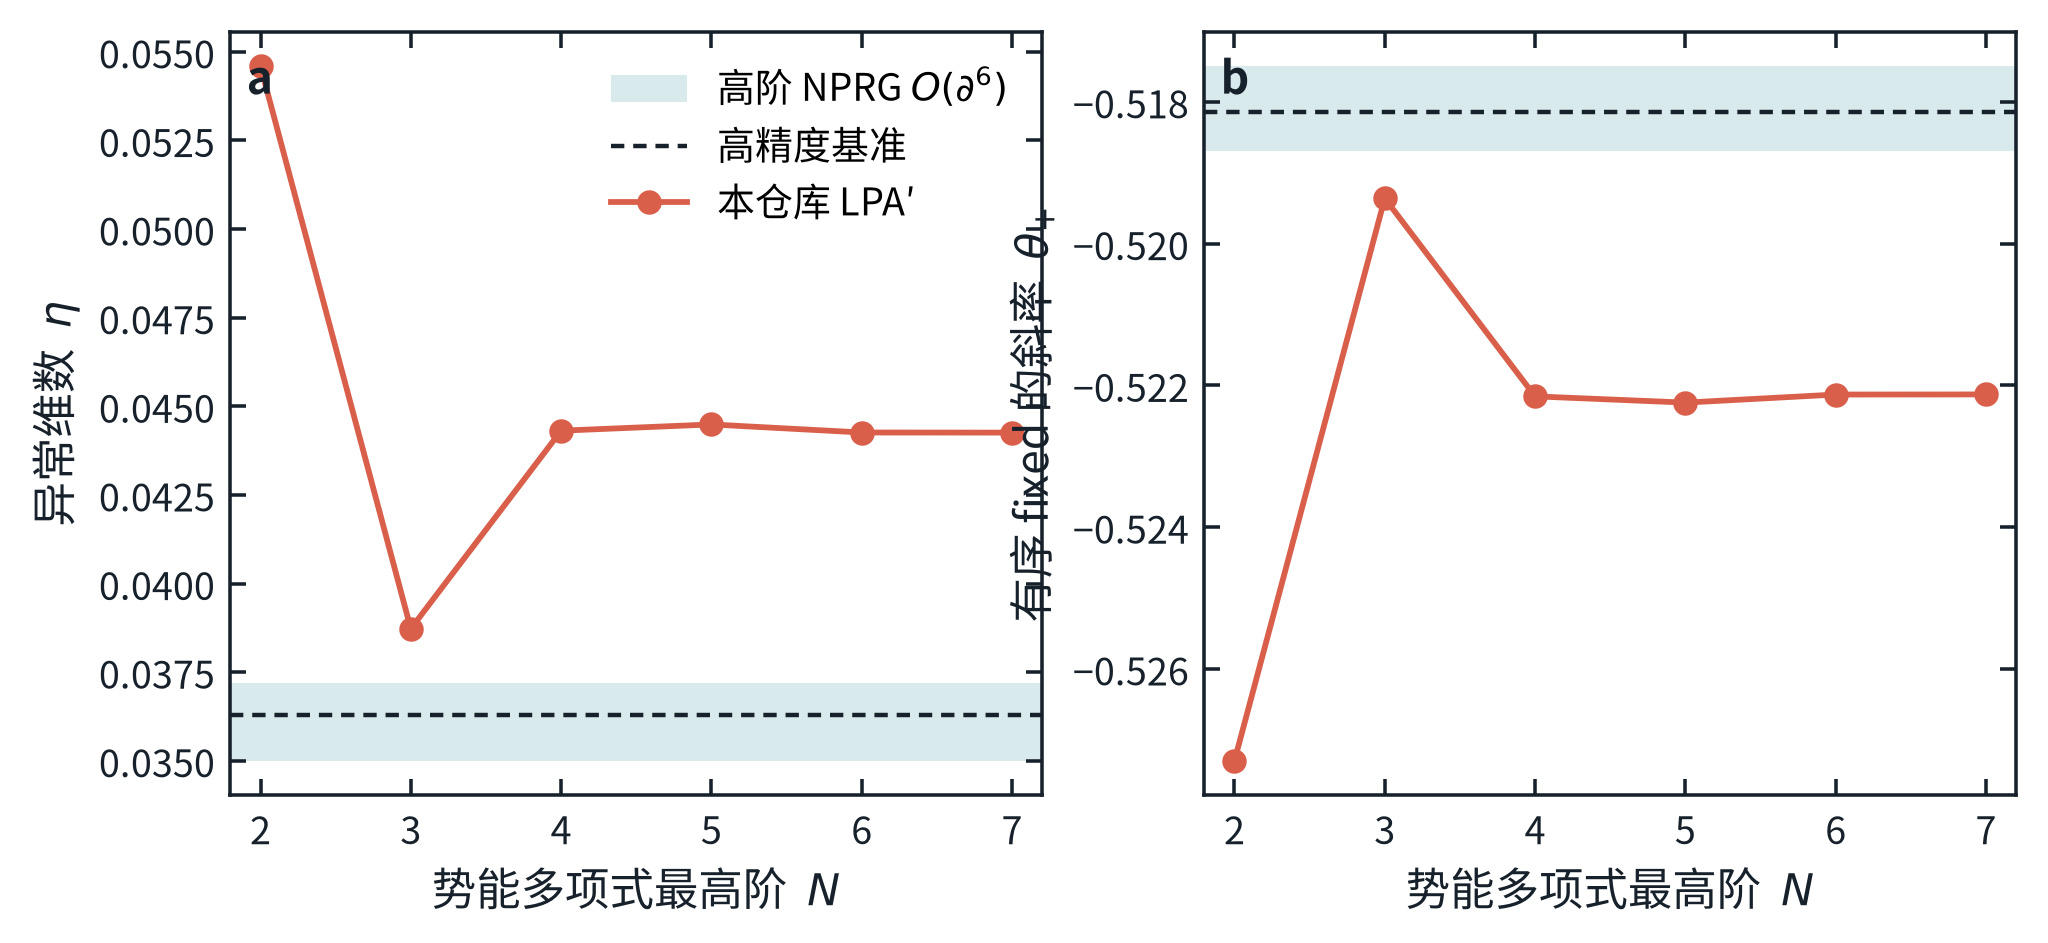
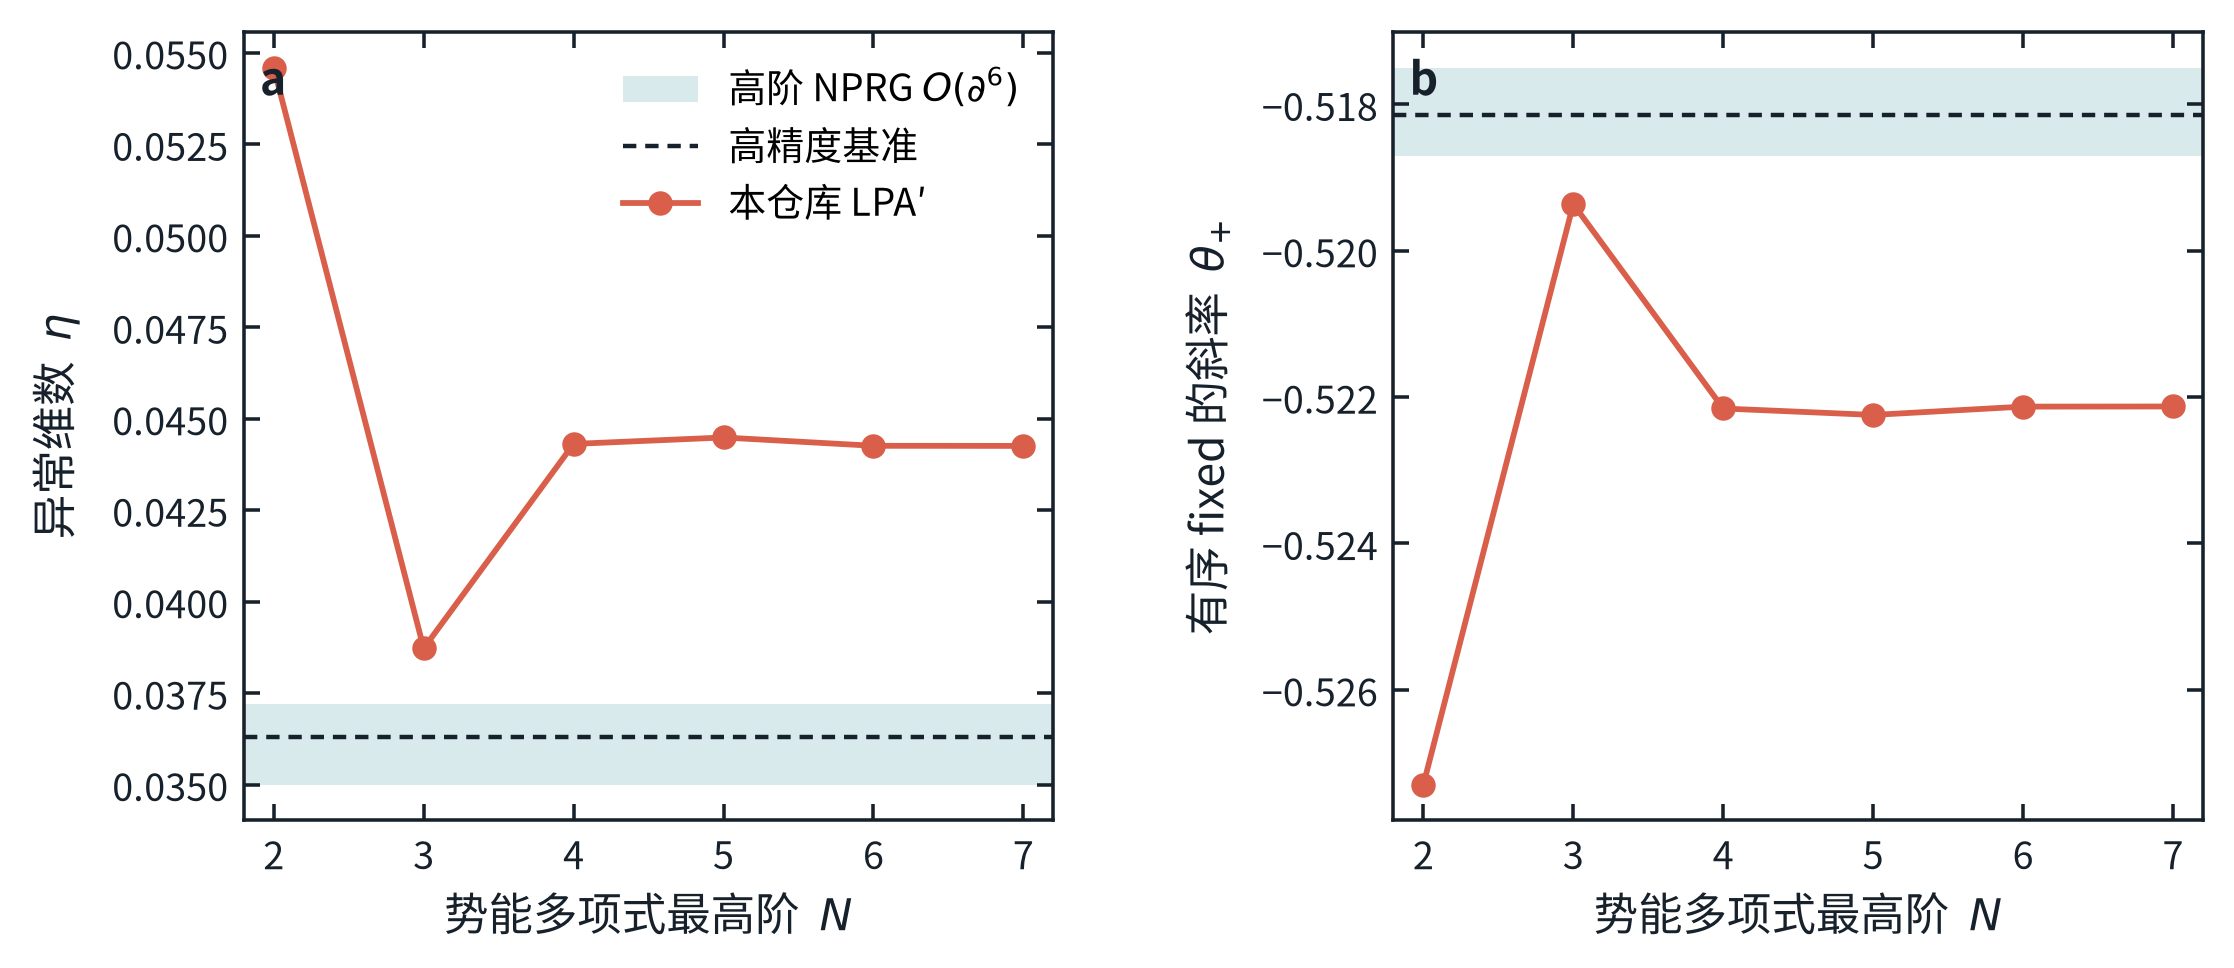
更新FRG报告

diff --git a/show/frg-quantum-ising-initial-slip/index.html b/show/frg-quantum-ising-initial-slip/index.html
@@ -297,7 +297,7 @@
       <div class="meta">
         <span class="status">可复现计算</span>
         <span>发布日期：2026-07-26</span>
-        <span>方法：Wetterich FRG + 边界／复制子 RG</span>
+        <span>方法：Wetterich FRG + 边界／replica RG</span>
         <span>代码与数据：本报告同仓库</span>
       </div>
     </div>
@@ -310,7 +310,7 @@
         在量子临界点，虚时间演化会把初态变成欧几里得路径积分的一条“时间边界”。
         因而短时磁化率不是只由体相临界点决定；初态属于哪一种边界固定点同样关键。
         本报告从精确的 Wetterich 泛函流方程出发，在体相使用 LPA′ 与高阶导数展开，
-        在边界使用普通边界算符与复制子随机场流，计算一维和二维量子 Ising 模型的
+        在边界使用普通边界算符与 replica 随机场流，计算一维和二维量子 Ising 模型的
         有符号短时对数斜率 \(\theta\)。
       </p>
       <div class="result-band">
@@ -602,14 +602,15 @@
         \(y_{h_1}=(D-1)-\Delta_1=0.7249(6)\)。
       </p>
 
-      <h3 class="random">4.3 随机 \(+\!/\!-\) fixed：复制子方差是否相关？</h3>
+      <h3 class="random">4.3 随机 \(+\!/\!-\) fixed：replica 方差是否相关？</h3>
       <p>
         令边界符号 \(s(\mathbf x)=\pm1\) 的概率为
         \(P(s=\pm1)=(1\pm m_0)/2\)。\(m_0=0\) 时平均磁化严格为零；
         \(\theta_{\rm rand}\) 指
         \(R_{\rm rand}=\left.\partial\overline M/\partial m_0\right|_0\)
-        的增长。引入 \(n\) 个复制子后，零均值、方差 \(\Delta\) 的 quenched
-        边界场产生
+        的增长。为计算冻结随机场的平均，引入 \(n\) 套相同的场
+        \(\phi_a\)（英文称 replicas），完成计算后取 \(n\to0\)。零均值、方差
+        \(\Delta\) 的 quenched 边界场产生
       </p>
       \[
         S_{\partial,\rm rep}
@@ -629,7 +630,7 @@
       \]
       <p>
         \(D=2\) 时 \(y_w=0\)，随机方差是边缘无关变量。把非普适正系数吸收到
-        \(g\) 中，二阶复制子流可写成
+        \(g\) 中，二阶 replica RG 流可写成
       </p>
       \[
         \frac{dg}{d\ell}=-g^2,\qquad
@@ -827,7 +828,7 @@
         <li>
           <div>
             <strong>ordinary 的三维边界输入是外部精密校准。</strong>
-            本仓库直接求解体相 FRG 与复制子边界流；\(y_{h_1}=0.7249(6)\)
+            本仓库直接求解体相 FRG 与 replica 边界流；\(y_{h_1}=0.7249(6)\)
             来自改进格点的高精度 ordinary 边界算符测定。它不是本仓库 LPA′
             自行产生的数字。这样做牺牲了“纯单一截断”的标签，换来可辩护的最终精度。
           </div>
@@ -871,7 +872,7 @@ python -m http.server 8000</code></pre>
         <li><a href="./data/exponents.csv">最终六行指数表</a></li>
         <li><a href="./data/lpa_convergence_D3.json">\(D=3\) LPA′ 阶数收敛序列</a></li>
         <li><a href="./src/frg_initial_slip/bulk_lpa.py">固定点与稳定性矩阵实现</a></li>
-        <li><a href="./src/frg_initial_slip/boundary_rg.py">边界／随机复制子指数实现</a></li>
+        <li><a href="./src/frg_initial_slip/boundary_rg.py">边界／随机 replica 指数实现</a></li>
         <li><a href="./src/frg_initial_slip/figures.py">全部图形的可重复绘图代码</a></li>
       </ul>
       <p class="fineprint">

diff --git a/show/frg-quantum-ising-initial-slip/src/frg_initial_slip/figures.py b/show/frg-quantum-ising-initial-slip/src/frg_initial_slip/figures.py
@@ -196,7 +196,9 @@ def convergence_figure(results: dict, output_directory: Path) -> None:
     eta = np.array([row["eta"] for row in data])
     theta_fixed = -(1.0 + eta) / 2.0
 
-    figure, axes = plt.subplots(1, 2, figsize=(7.2, 3.1))
+    figure, axes = plt.subplots(1, 2, figsize=(7.9, 3.2))
+    # Keep the right-panel y label fully inside the inter-panel gutter.
+    figure.subplots_adjust(wspace=0.42)
     panels = [
         (axes[0], eta, r"异常维数  $\eta$", 0.0361, 0.0011, 0.0362978),
         (
@@ -235,7 +237,7 @@ def convergence_figure(results: dict, output_directory: Path) -> None:
             label="本仓库 LPA′",
         )
         axis.set_xlabel("势能多项式最高阶  $N$")
-        axis.set_ylabel(ylabel)
+        axis.set_ylabel(ylabel, labelpad=7)
         axis.set_xticks(orders)
         axis.set_xlim(1.8, 7.2)
         _panel_label(axis, chr(ord("a") + index))
@@ -245,7 +247,8 @@ def convergence_figure(results: dict, output_directory: Path) -> None:
 
 def exponent_comparison_figure(results: dict, output_directory: Path) -> None:
     set_paper_style()
-    figure, axes = plt.subplots(1, 2, figsize=(7.8, 3.35), sharey=True)
+    figure, axes = plt.subplots(1, 2, figsize=(8.0, 3.35), sharey=True)
+    figure.subplots_adjust(wspace=0.18)
     labels = ["严格 (+)\nfixed", "ordinary", "随机 +/−\nfixed"]
     markers = ["o", "s", "D"]
     colors = [COLORS["fixed"], COLORS["ordinary"], COLORS["random"]]
@@ -313,7 +316,8 @@ def exponent_comparison_figure(results: dict, output_directory: Path) -> None:
 
 def disorder_flow_figure(results: dict, output_directory: Path) -> None:
     set_paper_style()
-    figure, axes = plt.subplots(1, 2, figsize=(7.7, 3.2))
+    figure, axes = plt.subplots(1, 2, figsize=(8.0, 3.25))
+    figure.subplots_adjust(wspace=0.34)
     ell = np.linspace(0, 12, 400)
 
     axis = axes[0]
@@ -326,7 +330,7 @@ def disorder_flow_figure(results: dict, output_directory: Path) -> None:
             label=rf"$g_0={coupling:g}$",
         )
     axis.set_xlabel(r"RG “时间”  $\ell=\ln b$")
-    axis.set_ylabel(r"复制子方差耦合  $g(\ell)$")
+    axis.set_ylabel(r"replica 方差耦合  $g(\ell)$", labelpad=7)
     axis.set_title("1D 量子：边缘无关", pad=7)
     axis.legend(loc="upper right")
     _panel_label(axis, "a")
@@ -354,7 +358,7 @@ def disorder_flow_figure(results: dict, output_directory: Path) -> None:
             label=rf"$w_0={amplitude:g}$",
         )
     axis.set_xlabel(r"RG “时间”  $\ell=\ln b$")
-    axis.set_ylabel(r"随机场均方根  $w(\ell)$")
+    axis.set_ylabel(r"随机场均方根  $w(\ell)$", labelpad=7)
     axis.set_title("2D 量子：无关", pad=7)
     axis.legend(loc="upper right")
     axis.text(
@@ -371,7 +375,8 @@ def disorder_flow_figure(results: dict, output_directory: Path) -> None:
 
 def scaling_curves_figure(results: dict, output_directory: Path) -> None:
     set_paper_style()
-    figure, axes = plt.subplots(1, 2, figsize=(7.8, 3.25), sharey=True)
+    figure, axes = plt.subplots(1, 2, figsize=(8.0, 3.25), sharey=True)
+    figure.subplots_adjust(wspace=0.18)
     tau = np.geomspace(1.0, 1e4, 400)
     for panel, quantum_dimension in enumerate((1, 2)):
         axis = axes[panel]
